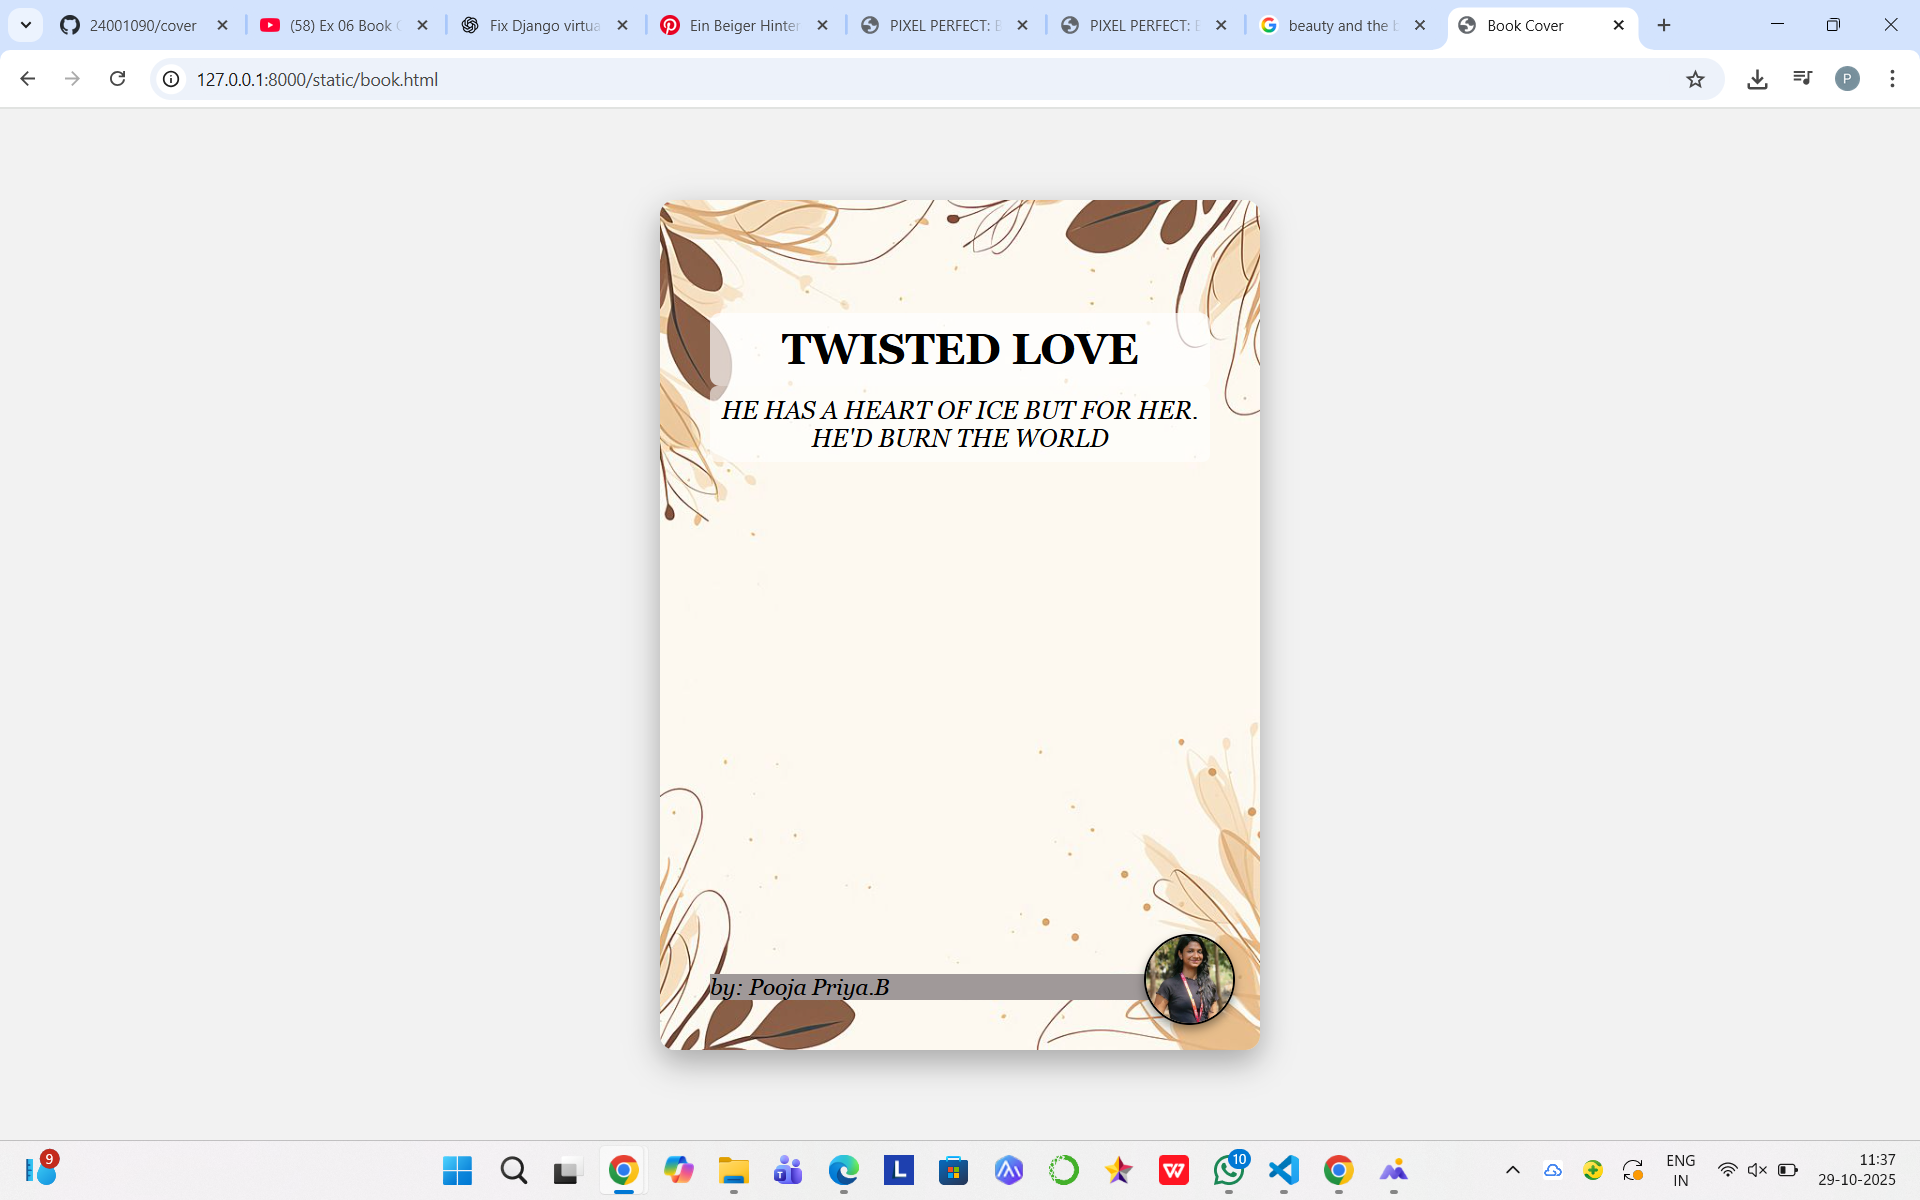
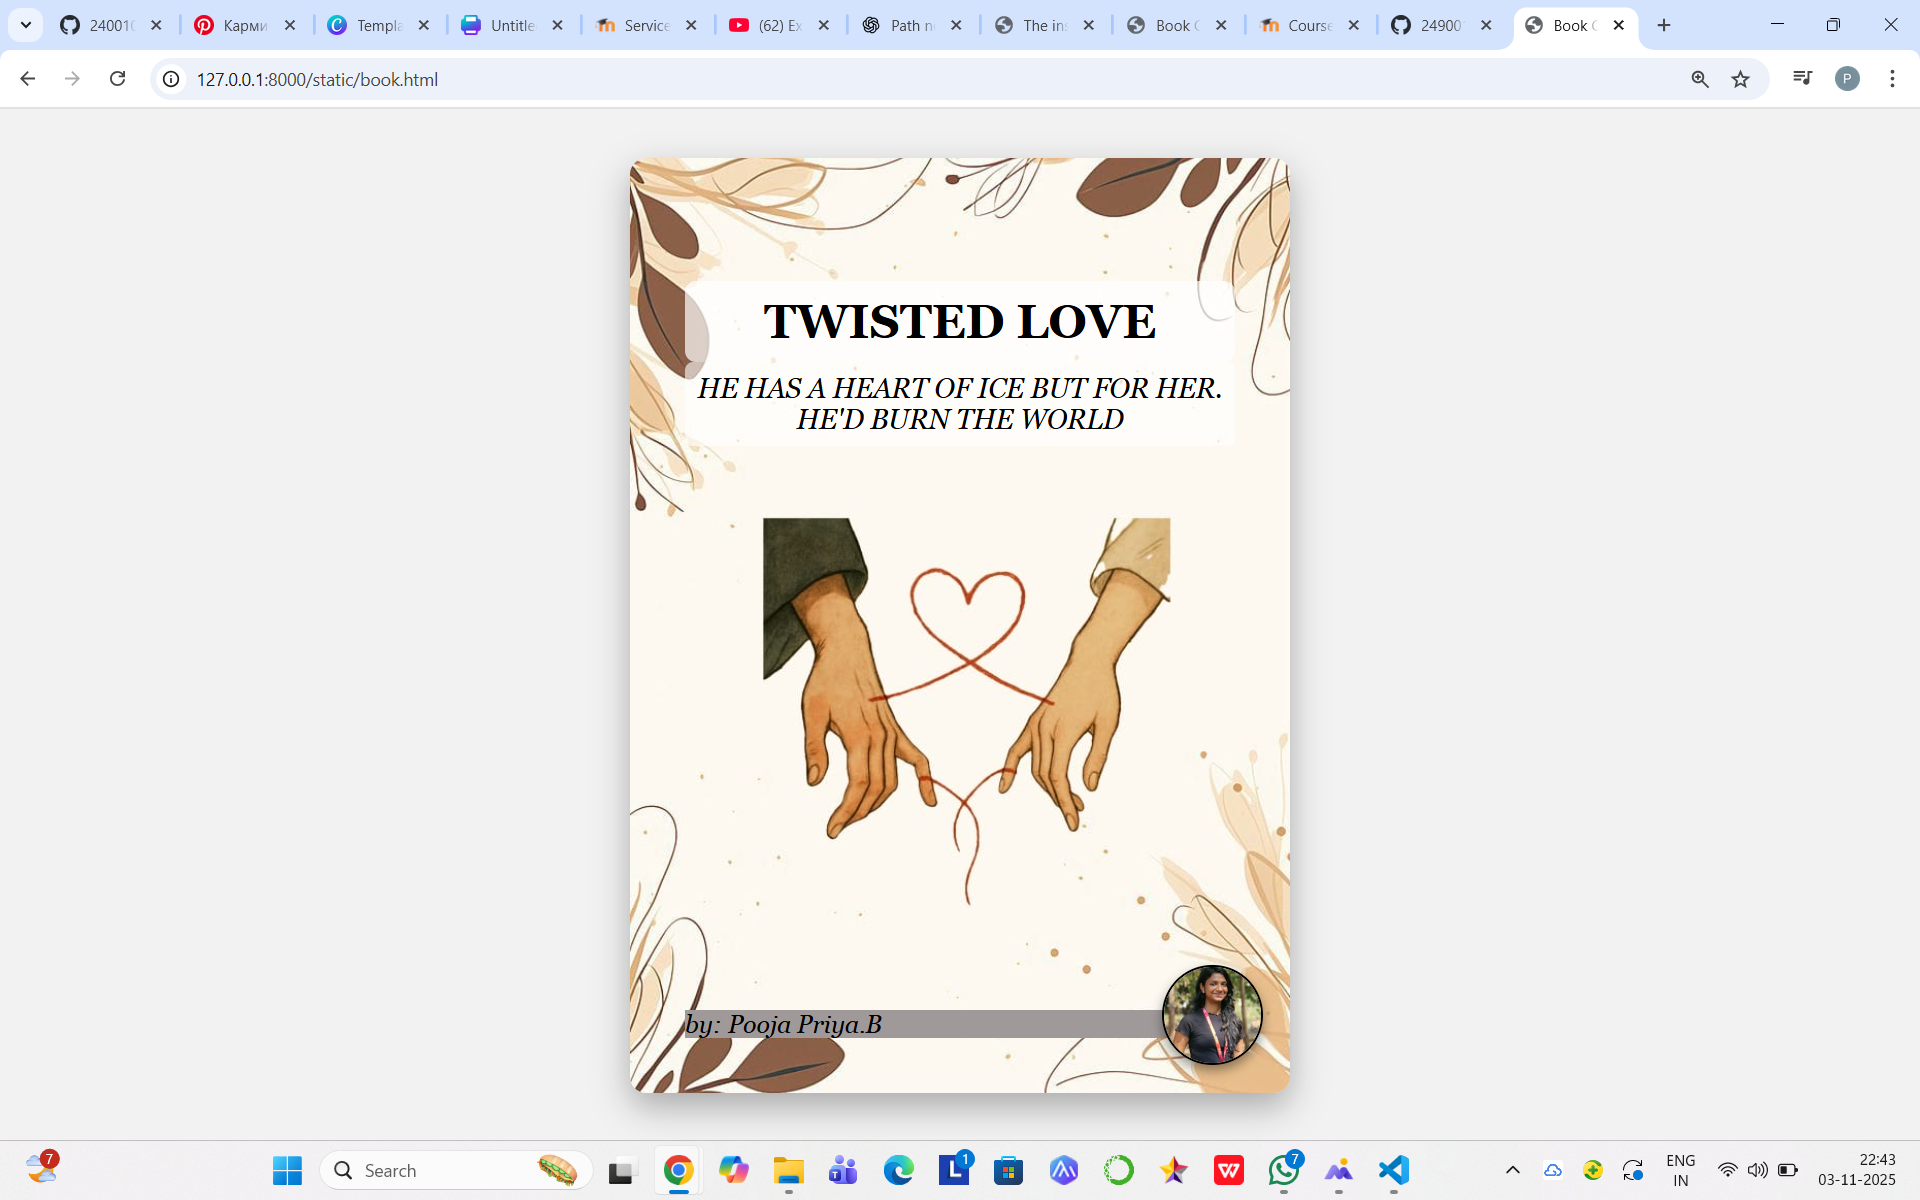
Success

diff --git a/pro6/app5/static/book.html b/pro6/app5/static/book.html
@@ -18,7 +18,7 @@
     .book-cover {
       width: 400px;
       height: 600px;
-      background-image: url('cover page.jpg');
+      background-image: url('cover page 1.jpg');
       background-size: cover;
       background-position: center;
       color: white;

diff --git a/README.md b/README.md
@@ -53,7 +53,7 @@ book.html
     .book-cover {
       width: 400px;
       height: 600px;
-      background-image: url('cover page.jpg');
+      background-image: url('cover page 1.jpg');
       background-size: cover;
       background-position: center;
       color: white;
@@ -118,6 +118,7 @@ book.html
   </div>
 </body>
 </html>
+
 
 ```
 
